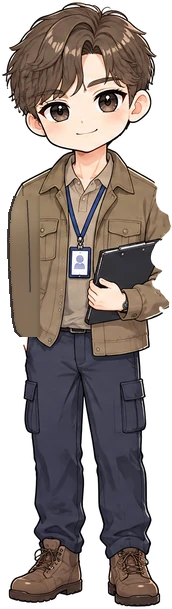
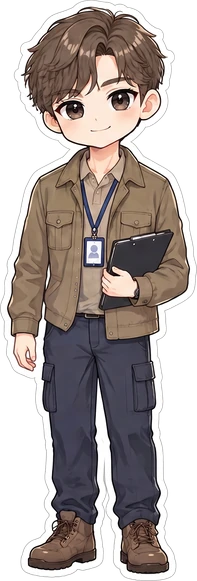
한민 캐릭터를 팔이 온전한 새 그림으로 교체
Claude-Session: https://claude.ai/code/session_013o6MwTRjv9wdDZ1RWn6mmU

diff --git a/sw.js b/sw.js
@@ -1,5 +1,5 @@
 // 자동 생성 파일: tools/build.py가 만든다. 직접 고치지 말고 tools/sw.template.js를 고칠 것
-const CACHE='humzzwi-2026.10.09-850ceb';
+const CACHE='humzzwi-2026.10.09-d718e7';
 const ASSETS=["./", "index.html", "manifest.json", "icon-192.png", "icon-512.png", "apple-touch-icon.png", "fonts/GowunDodum-Regular.woff2", "fonts/Jua-Regular.woff2", "assets/a_bear.webp", "assets/a_daram.webp", "assets/a_daram_f.webp", "assets/a_eunbin.webp", "assets/a_fox.webp", "assets/a_hanmin.webp", "assets/a_hyunsu.webp", "assets/a_hz_walk.webp", "assets/a_hz_walk_b.webp", "assets/a_jaemin.webp", "assets/a_jiyoung.webp", "assets/a_lab.webp", "assets/a_sangho.webp", "assets/a_seohwi.webp", "assets/a_sumin.webp", "assets/badge.webp", "assets/c_ai.webp", "assets/c_ai_b.webp", "assets/c_blind.webp", "assets/c_blind_b.webp", "assets/c_blog.webp", "assets/c_blog_b.webp", "assets/c_cafe.webp", "assets/c_cafe_b.webp", "assets/c_coffee.webp", "assets/c_coffee_b.webp", "assets/c_content.webp", "assets/c_content_b.webp", "assets/c_cs.webp", "assets/c_cs_b.webp", "assets/c_date.webp", "assets/c_date_b.webp", "assets/c_daytrip.webp", "assets/c_daytrip_b.webp", "assets/c_english.webp", "assets/c_english_b.webp", "assets/c_erp.webp", "assets/c_erp_b.webp", "assets/c_ev_ceo.webp", "assets/c_ev_ceo_b.webp", "assets/c_ev_jobup.webp", "assets/c_ev_jobup_b.webp", "assets/c_ev_promo.webp", "assets/c_ev_promo_b.webp", "assets/c_excel.webp", "assets/c_excel_b.webp", "assets/c_filling.webp", "assets/c_filling_b.webp", "assets/c_formula.webp", "assets/c_formula_b.webp", "assets/c_friends.webp", "assets/c_friends_b.webp", "assets/c_global.webp", "assets/c_global_b.webp", "assets/c_gym.webp", "assets/c_gym_b.webp", "assets/c_half.webp", "assets/c_half_b.webp", "assets/c_ingredient.webp", "assets/c_ingredient_b.webp", "assets/c_jeju.webp", "assets/c_jeju_b.webp", "assets/c_keymsg.webp", "assets/c_keymsg_b.webp", "assets/c_leave.webp", "assets/c_leave_b.webp", "assets/c_lecture.webp", "assets/c_lecture_b.webp", "assets/c_license.webp", "assets/c_license_b.webp", "assets/c_logistics.webp", "assets/c_logistics_b.webp", "assets/c_mba.webp", "assets/c_mba_b.webp", "assets/c_md.webp", "assets/c_md_b.webp", "assets/c_minutes.webp", "assets/c_minutes_b.webp", "assets/c_orient.webp", "assets/c_orient_b.webp", "assets/c_overtime.webp", "assets/c_overtime_b.webp", "assets/c_package.webp", "assets/c_package_b.webp", "assets/c_pilates.webp", "assets/c_pilates_b.webp", "assets/c_pt.webp", "assets/c_pt_b.webp", "assets/c_research.webp", "assets/c_research_b.webp", "assets/c_review.webp", "assets/c_review_b.webp", "assets/c_run.webp", "assets/c_run_b.webp", "assets/c_schedule.webp", "assets/c_schedule_b.webp", "assets/c_selfdate.webp", "assets/c_selfdate_b.webp", "assets/c_settle.webp", "assets/c_settle_b.webp", "assets/c_shoot.webp", "assets/c_shoot_b.webp", "assets/c_shop_hb.webp", "assets/c_shop_hb_b.webp", "assets/c_shop_mall.webp", "assets/c_shop_mall_b.webp", "assets/c_shop_online.webp", "assets/c_shop_online_b.webp", "assets/c_snack.webp", "assets/c_snack_b.webp", "assets/c_store.webp", "assets/c_store_b.webp", "assets/c_tokyo.webp", "assets/c_tokyo_b.webp", "assets/c_trip.webp", "assets/c_trip_b.webp", "assets/c_walk.webp", "assets/c_walk_b.webp", "assets/d_coffeechat_f.webp", "assets/d_coffeechat_f_b.webp", "assets/d_coffeechat_m.webp", "assets/d_coffeechat_m_b.webp", "assets/d_coffeeget_f.webp", "assets/d_coffeeget_f_b.webp", "assets/d_coffeeget_m.webp", "assets/d_coffeeget_m_b.webp", "assets/d_coffeegive_f.webp", "assets/d_coffeegive_f_b.webp", "assets/d_coffeegive_m.webp", "assets/d_coffeegive_m_b.webp", "assets/d_coffeeshare_f.webp", "assets/d_coffeeshare_f_b.webp", "assets/d_coffeeshare_m.webp", "assets/d_coffeeshare_m_b.webp", "assets/d_confess_f.webp", "assets/d_confess_f_b.webp", "assets/d_confess_m.webp", "assets/d_confess_m_b.webp", "assets/d_picnic_f.webp", "assets/d_picnic_f_b.webp", "assets/d_picnic_m.webp", "assets/d_picnic_m_b.webp", "assets/d_ramen_f.webp", "assets/d_ramen_f_b.webp", "assets/d_ramen_m.webp", "assets/d_ramen_m_b.webp", "assets/ev_arrive.webp", "assets/ev_arrive_b.webp", "assets/ev_building.webp", "assets/ev_dinner.webp", "assets/ev_overload.webp", "assets/ev_pass.webp", "assets/ev_pass_b.webp", "assets/ev_present.webp", "assets/ev_reject.webp", "assets/ev_reject_b.webp", "assets/ev_studio.webp", "assets/ev_studio_b.webp", "assets/ev_subway.webp", "assets/ev_subway_b.webp", "assets/f_bear.webp", "assets/f_ceo.webp", "assets/f_daram.webp", "assets/f_daram_f.webp", "assets/f_eunbin.webp", "assets/f_fox.webp", "assets/f_hanmin.webp", "assets/f_hyunsu.webp", "assets/f_hz.webp", "assets/f_jaemin.webp", "assets/f_jiyoung.webp", "assets/f_lab.webp", "assets/f_sangho.webp", "assets/f_seohwi.webp", "assets/f_sumin.webp", "assets/hz.png", "assets/id_bad.webp", "assets/id_good.webp", "assets/id_ok.webp", "assets/lunch.webp", "assets/m_box.webp", "assets/m_box_b.webp", "assets/m_fit.webp", "assets/m_fit_b.webp", "assets/m_lab.webp", "assets/m_lab_b.webp", "assets/m_phone.webp", "assets/m_phone_b.webp", "assets/m_study.webp", "assets/m_study_b.webp", "assets/pl_boss.webp", "assets/pl_cafe.webp", "assets/pl_lab.webp", "assets/pl_mkt.webp", "assets/pl_ops.webp", "assets/pl_roof.webp", "assets/pl_sales.webp", "assets/pl_strat.webp", "assets/pl_studio.webp", "assets/pl_wh.webp", "assets/s_ceo.webp", "assets/s_coffee.webp", "assets/s_coffee_b.webp", "assets/s_dark.webp", "assets/s_dark_b.webp", "assets/s_desk.webp", "assets/s_desk_b.webp", "assets/s_eat.webp", "assets/s_eat_b.webp", "assets/s_jump.webp", "assets/s_jump_b.webp", "assets/s_sleep.webp", "assets/s_sleep_b.webp", "assets/s_walk.webp", "assets/s_walk_b.webp", "assets/sc_cafe.webp", "assets/sc_factory.webp", "assets/sc_gym.webp", "assets/sc_home.webp", "assets/sc_lab.webp", "assets/sc_meeting.webp", "assets/sc_office.webp", "assets/sc_package.webp", "assets/sc_park.webp", "assets/sc_popup.webp", "assets/sc_rain.webp", "assets/sc_store.webp", "assets/sc_studio.webp", "assets/sc_study.webp", "assets/v_short.webp", "assets/v_short_b.webp"];
 self.addEventListener('install',e=>{self.skipWaiting();e.waitUntil((async()=>{
   const c=await caches.open(CACHE),total=ASSETS.length,all=async()=>self.clients.matchAll({includeUncontrolled:true});

diff --git a/index.html b/index.html
@@ -7,7 +7,7 @@
 <meta name="apple-mobile-web-app-capable" content="yes"><meta name="mobile-web-app-capable" content="yes">
 <meta name="apple-mobile-web-app-status-bar-style" content="black-translucent"><meta name="apple-mobile-web-app-title" content="험쮜메이커">
 <meta name="theme-color" content="#2a1f33">
-<link rel="manifest" href="manifest.json?v=850ceb"><link rel="apple-touch-icon" sizes="180x180" href="apple-touch-icon.png?v=850ceb"><link rel="icon" type="image/png" sizes="192x192" href="icon-192.png?v=850ceb">
+<link rel="manifest" href="manifest.json?v=d718e7"><link rel="apple-touch-icon" sizes="180x180" href="apple-touch-icon.png?v=d718e7"><link rel="icon" type="image/png" sizes="192x192" href="icon-192.png?v=d718e7">
 <style>
 /* 글꼴은 파일로 같이 들고 다닌다 (비행기 모드에서도 같은 모양) */
 @font-face{font-family:"Jua";src:url(fonts/Jua-Regular.woff2) format("woff2");font-display:swap}
@@ -2364,7 +2364,7 @@ function showGroup(ks){let g=$('#group');if(!g){g=document.createElement('div');
   // 모두 같은 배율의 그림이라 BODY_T(실제 키) 비율 그대로 세운다
   g.innerHTML=ks.map((k,i)=>`<figure style="animation-delay:${i*.08}s" data-t="${bodyT(k)}"><figcaption>${JOB_TAG[k]?JOB_TAG[k]+' · '+given(k):who(k).name}</figcaption><img src="${IMG(sprOf(k))}" alt="${esc(who(k).name)}"></figure>`).join('');g.hidden=false;placeGroup()}
 // 모든 동료 그림은 한 장의 라인업에서 같은 배율로 오려낸 것. BODY_T = 그림의 실제 픽셀 키 (얼굴 크기는 모두 같다)
-const BODY_T={"sangho":597,"hyunsu":533,"hanmin":609,"seohwi":536,"jiyoung":493,"daram":585,"eunbin":504,"sumin":538,"jaemin":593,"daram_f":486},T_MAX=609;
+const BODY_T={"sangho":597,"hyunsu":533,"hanmin":581,"seohwi":536,"jiyoung":493,"daram":585,"eunbin":504,"sumin":538,"jaemin":593,"daram_f":486},T_MAX=597;
 const sprOf=k=>imgOf(k);
 const bodyT=k=>BODY_T[imgOf(k).slice(2)]||T_MAX;
 function placeGroup(){const g=$('#group');if(!g||g.hidden)return;const d=$('#dialog'),ph=$('#phone').clientHeight,top=d.hidden?ph-200:d.offsetTop;
@@ -2889,7 +2889,7 @@ document.addEventListener('click',e=>{const b=e.target.closest('[data-mset]');if
    말주머니로 질문 → 답을 고르면 업무 성과 평가(정답일수록 매출·해외 진출·♥ 상승). 한 달에 3번. */
 const SEAT={sangho:[30,26],hyunsu:[70,26],hanmin:[18,48],seohwi:[50,48],jiyoung:[82,48],daram:[13,70],eunbin:[37,70],sumin:[63,70],jaemin:[87,70]};
 // 캐릭터마다 원본 그림 크기가 달라서, 얼굴 폭이 같아 보이도록 자르는 값 [너비%, 왼쪽%, 위%]
-const CROP={"sangho": [110.3, -3.0, 4.8], "hyunsu": [112.7, -1.2, 4.8], "hanmin": [104.2, 2.2, 4.8], "seohwi": [110.3, -1.5, 4.8], "jiyoung": [98.2, 2.2, 4.8], "daram": [107.3, -0.6, 4.8], "eunbin": [106.1, -2.8, 4.8], "sumin": [103.0, 3.4, 4.8], "jaemin": [115.8, -1.5, 4.8], "daram_f": [105.5, -1.5, 4.8]};
+const CROP={"sangho": [110.3, -3.0, 4.8], "hyunsu": [112.7, -1.2, 4.8], "hanmin": [119.4, -7.0, 4.8], "seohwi": [110.3, -1.5, 4.8], "jiyoung": [98.2, 2.2, 4.8], "daram": [107.3, -0.6, 4.8], "eunbin": [106.1, -2.8, 4.8], "sumin": [103.0, 3.4, 4.8], "jaemin": [115.8, -1.5, 4.8], "daram_f": [105.5, -1.5, 4.8]};
 const SEAT_ROW=[[11.5,'부장실'],[81,'인턴석 · 문 바로 옆']];
 const MY_SEAT=[60,96];
 // 사무실에선 이름 대신 직무로 표기
@@ -3496,7 +3496,7 @@ $('#btn-start').onclick=async()=>{
 setSound(AU.on);
 /* ================= 빌드 코드 · 오프라인(홈 화면 앱) =================
    tools/build.py가 BUILD를 매긴다. 홈 화면에 추가하면 처음 한 번 그림을 전부 받아 두고, 그 뒤로는 비행기 모드에서도 실행된다 */
-const BUILD='2026.10.09-850ceb';
+const BUILD='2026.10.09-d718e7';
 $('#build-title').textContent=$('#build-menu').textContent=`빌드 ${BUILD}`;
 if('serviceWorker' in navigator&&/^https?:$/.test(location.protocol)){
   const bar=document.createElement('div');bar.className='sw-bar';bar.hidden=true;document.body.appendChild(bar);
